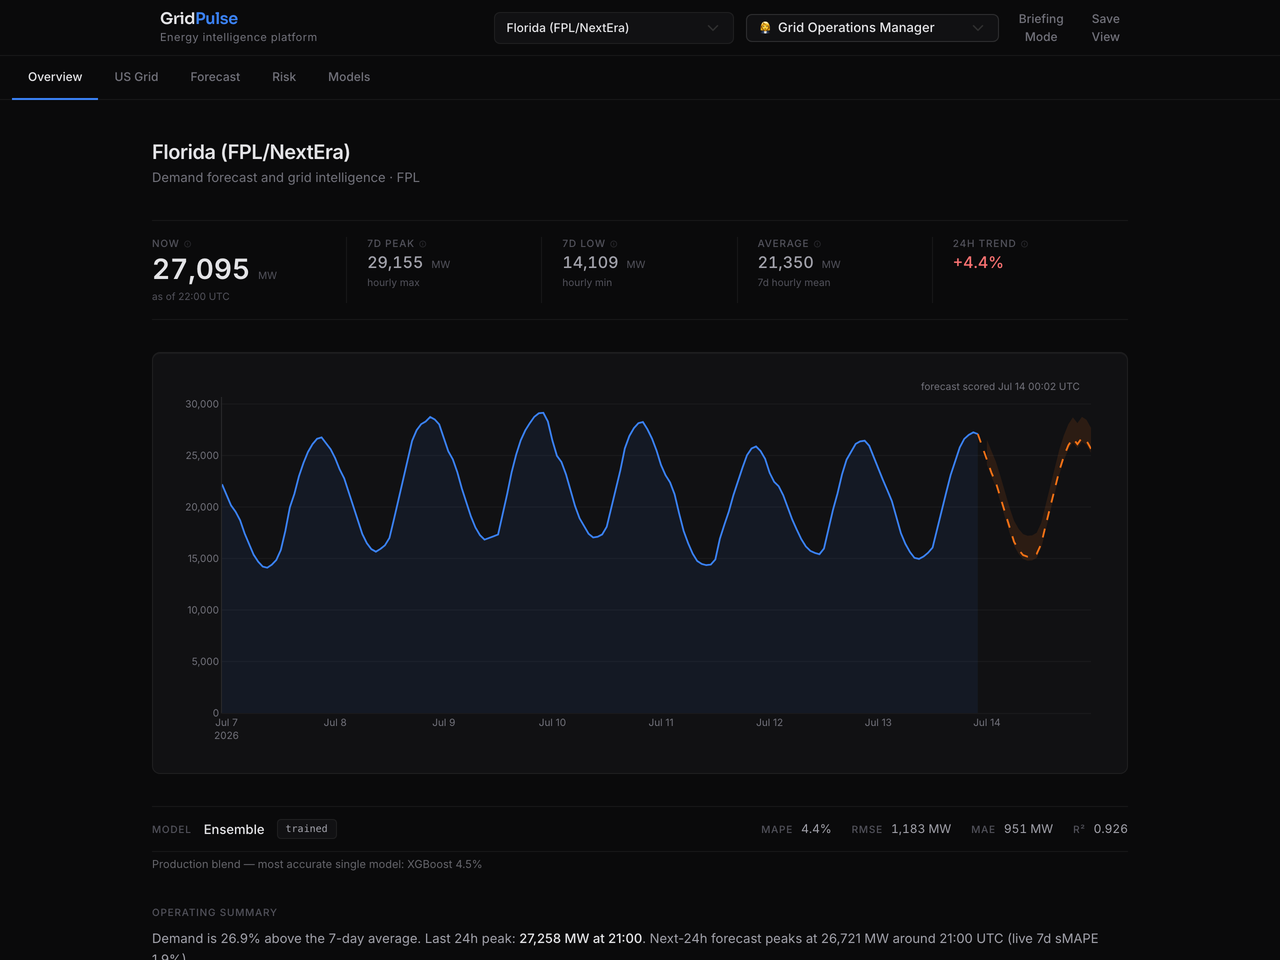
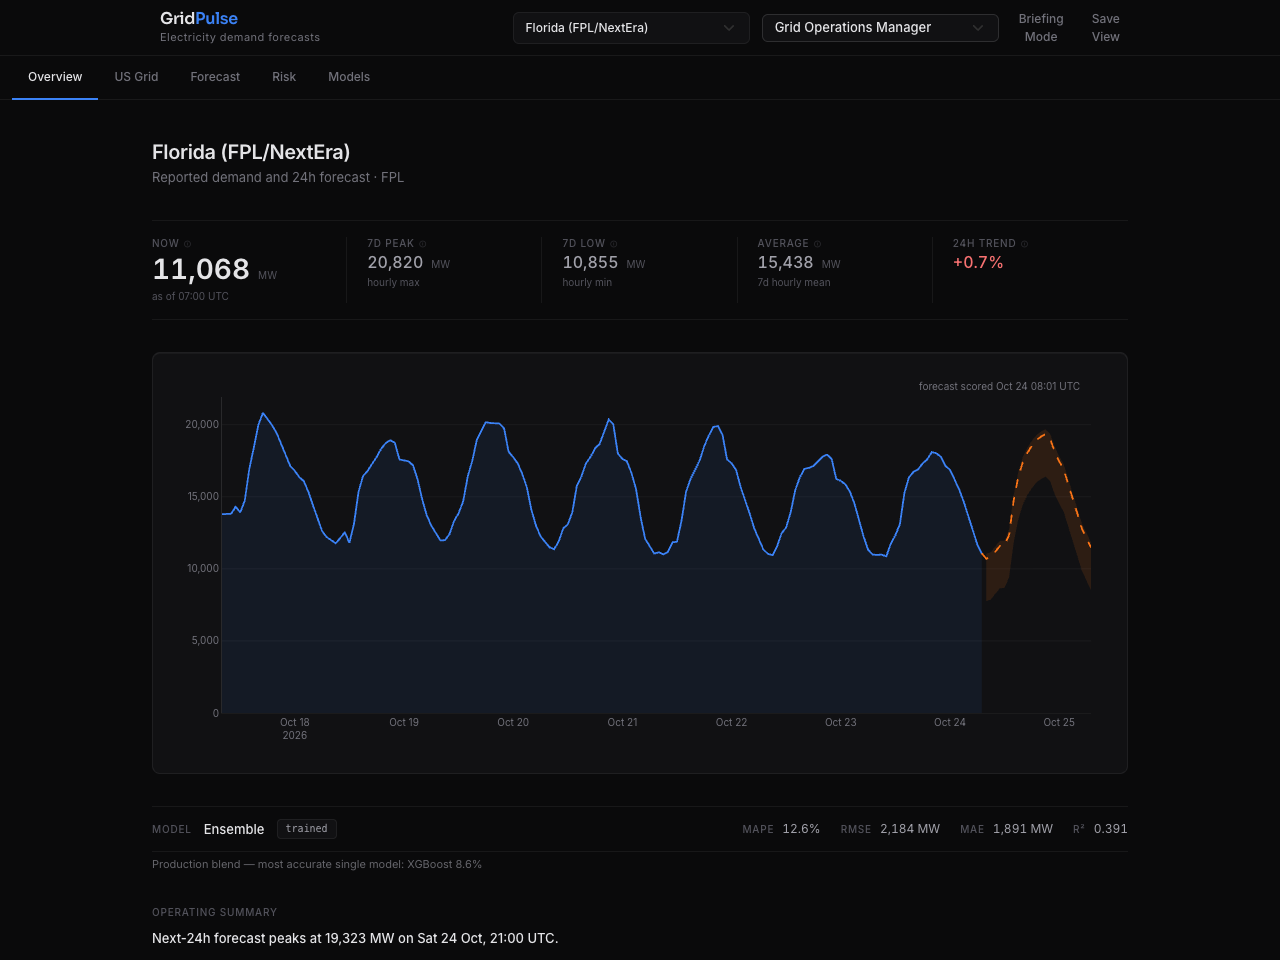
fix(content): correct data claims and refresh evaluation evidence

diff --git a/src/app/focusforge/terms/page.tsx b/src/app/focusforge/terms/page.tsx
@@ -7,7 +7,7 @@ import { Mono } from "@/components/typography/Mono";
 export const metadata: Metadata = {
   title: "FocusForge — Terms of Use",
   description:
-    "FocusForge's terms of use. Personal use license, honest limits on what the app does, fair liability terms. Built solo by Kristen Martino.",
+    "FocusForge's terms of use: the app license, local data export, template-based coaching, and conditions of use.",
   robots: { index: true, follow: true },
 };
 
@@ -45,7 +45,7 @@ export default function FocusForgeTermsOfUse() {
                 <span className="font-medium text-[var(--color-graphite-20)]">
                   Last updated:
                 </span>{" "}
-                May 17, 2026
+                October 24, 2026
               </span>
             </div>
 
@@ -54,17 +54,17 @@ export default function FocusForgeTermsOfUse() {
                 The short version
               </Mono>
               <p className="mt-4 text-base md:text-lg leading-relaxed text-[var(--color-graphite-20)]">
-                You can use FocusForge to do your work. We make no warranty
-                that the app is perfect or that your data is invulnerable —
-                back up via <strong>Settings → Export My Progress</strong> if
-                losing your streak would actually upset you. Don&apos;t try to
-                break the app for fun. If you do something illegal with the
-                app, that&apos;s between you and the law. If FocusForge genuinely
-                harms you, our liability is capped at what you paid for the
-                app (currently $0).
+                FocusForge is a focus timer with local progress records and
+                template-based coaching. Firebase receives usage events and
+                crash diagnostics as described in the{" "}
+                <Link href="/focusforge/privacy">Privacy Policy</Link>.
+                <strong> Settings → Export My Progress</strong> creates a JSON
+                copy of local progress. Version 1.0 cannot import that file
+                to restore progress in the app.
               </p>
               <p className="mt-3 text-base leading-relaxed text-[var(--color-graphite-40)]">
-                The long version follows. If anything is unclear, email{" "}
+                The full terms follow, including the warranty and liability
+                provisions. If anything is unclear, email{" "}
                 <a
                   href="mailto:legal@kristenmartino.ai"
                   className="text-[var(--color-signal-blue-soft)] underline-offset-4 hover:underline"
@@ -144,23 +144,25 @@ export default function FocusForgeTermsOfUse() {
                   You own everything you input into the app: your task names,
                   your character customizations, your streak history, your AI
                   Coach feedback. The app stores all of this on your device.
-                  You can export a complete JSON snapshot at any time via{" "}
+                  You can export a JSON file containing local progress via{" "}
                   <strong>Settings → Export My Progress</strong>.
                 </p>
                 <p>
-                  How we handle the small amount of data that does leave the
-                  device (crash reports, anonymous analytics) is described in
-                  detail in our <Link href="/focusforge/privacy">Privacy Policy</Link>. Read it.
+                  Firebase receives usage events and crash diagnostics, which
+                  can include installation or device identifiers. These
+                  records are not treated as fully anonymous. Collection
+                  and controls are described in the{" "}
+                  <Link href="/focusforge/privacy">Privacy Policy</Link>.
                 </p>
                 <p>
                   We make no promises about preserving your local data. If
                   your phone is damaged, lost, stolen, restored from a
-                  backup, or wiped, your FocusForge data may be lost. Cloud
-                  sync is planned for v1.1 but is not in v1.0.{" "}
-                  <strong>
-                    Back up via the export feature if your streak or character
-                    matters to you.
-                  </strong>
+                  backup, or wiped, your FocusForge data may be lost. Version
+                  1.0 has neither cloud sync nor an import/restore feature.
+                  The export contains session history, progression, inventory,
+                  quests and selected preferences; it does not contain every
+                  app record or Firebase data. Keep a saved export if you want
+                  a copy to inspect or use outside the app.
                 </p>
               </Section>
 
@@ -176,9 +178,7 @@ export default function FocusForgeTermsOfUse() {
                   </li>
                   <li>
                     A productivity guarantee. We make no claim that using
-                    FocusForge will cause you to get more done. (Spoiler:
-                    actually doing the work is the thing that gets the work
-                    done.)
+                    FocusForge will cause you to get more done.
                   </li>
                   <li>
                     Therapeutic advice. The AI Coach&apos;s templates are
@@ -202,11 +202,10 @@ export default function FocusForgeTermsOfUse() {
               <Section title="5. The AI Coach">
                 <p>
                   The &quot;AI Coach&quot; inside FocusForge is a hand-written catalog
-                  of templates routed by your local behavior. It is not a
-                  language model, it does not generate text dynamically, and
-                  it does not learn from you. It will surface one of a fixed
-                  set of pre-written sentences based on your task category
-                  and recent session pattern.
+                  of templates selected using your local behavior. It selects
+                  and fills written prompts using task context and recent
+                  session patterns. It does not call a language model or
+                  train a model on your activity.
                 </p>
                 <p>
                   The coach&apos;s suggestions are general. They may not apply to
@@ -256,9 +255,10 @@ export default function FocusForgeTermsOfUse() {
               <Section title="8. Service availability">
                 <p>
                   FocusForge is provided &quot;as is&quot; and &quot;as available.&quot; We make
-                  no promises about uptime, since the app runs entirely on
-                  your device and does not depend on a backend service.
-                  However:
+                  no promises about uninterrupted availability. The timer,
+                  local progress and coaching run on your device; Firebase
+                  analytics and crash reporting use external services.
+                  In particular:
                 </p>
                 <ul>
                   <li>

diff --git a/src/content/work.ts b/src/content/work.ts
@@ -140,7 +140,7 @@ export const projects: Project[] = [
     title: "Eval Harness",
     category: "Applied LLM Evaluation",
     summary:
-      "A framework for comparing language models on Sift’s news-processing tasks, covering output quality, cost, and response time. Includes tests for agent tool use and failure handling. Benchmark results are still pending.",
+      "A model-evaluation framework with a first categorization development result on 400 Sift articles. Reports agreement with stored model labels; human label review and the final held-out comparison remain pending.",
     href: "/work/eval-harness",
     slug: "eval-harness",
     liveHref: "https://evals.kristenmartino.ai",
@@ -151,13 +151,13 @@ export const projects: Project[] = [
     shape: "data-viz",
     image: "/work/eval-harness.png",
     imageAlt:
-      "Eval Harness site with links to the evaluation methodology and pending benchmark results.",
+      "Eval Harness live site, captured October 24, 2026: a 400-article development agreement baseline, model-assigned reference labels, and an unevaluated 100-item holdout.",
     metrics: [
-      "Planned comparison: 9 models · 4 tasks",
-      "Categorization and summarization modules",
-      "Held-out access gate · SHA-256 checks",
-      "Local and API cost comparison planned",
-      "Agent replay tests · live corpus run pending",
+      "400 real development articles",
+      "319/400 stored-label matches · 79.8%",
+      "Model-assigned labels · human review pending",
+      "100 held out · unevaluated",
+      "Full model and cost comparison pending",
     ],
   },
   {
@@ -199,7 +199,7 @@ export const projects: Project[] = [
     shape: "data-viz",
     image: "/work/gridpulse.png",
     imageAlt:
-      "GridPulse dashboard for Florida (FPL), showing reported electricity demand, forecasts, and model evaluation metrics.",
+      "GridPulse live demo captured October 24, 2026 for Florida (FPL), showing reported demand, a dated forecast, and the displayed snapshot's model metrics.",
     metrics: [
       "51 balancing authorities",
       "3 models + weighted ensemble",

diff --git a/src/content/services.ts b/src/content/services.ts
@@ -99,7 +99,7 @@ export const engagements: readonly Engagement[] = [
 export const proofHeading = "Related projects.";
 export const proofSub = "These independent projects show the kind of implementation and review work I do. Each case study states what is built, tested or still pending.";
 export const proof: readonly ProofItem[] = [
-  { slug: "eval-harness", name: "Eval Harness", claim: "Building a model-comparison framework.", detail: "Python adapters, task modules, held-out data checks and agent replay tests. The benchmark on Sift's real corpus is pending; no model rankings are claimed.", metric: "Harness implemented · corpus benchmark pending", caseStudyHref: "/work/eval-harness", liveHref: "https://evals.kristenmartino.ai", liveLabel: "View the methodology" },
+  { slug: "eval-harness", name: "Eval Harness", claim: "A measured development baseline.", detail: "Llama 3.1 8B matched 319/400 existing Sift category labels. The references are model-assigned; human label review and the final held-out model comparison remain pending.", metric: "79.8% stored-label agreement · development set", caseStudyHref: "/work/eval-harness", liveHref: "https://evals.kristenmartino.ai/leaderboard", liveLabel: "View development results" },
   {
     slug: "cabana",
     name: "Cabana",

diff --git a/src/app/focusforge/privacy/page.tsx b/src/app/focusforge/privacy/page.tsx
@@ -174,6 +174,13 @@ export default function FocusForgePrivacyPolicy() {
                   It is not an export of Firebase Analytics or Crashlytics records.
                 </p>
                 <p>
+                  Version 1.0 has no import/restore feature. The JSON file is
+                  a copy for inspection or use outside the app; exporting it
+                  does not provide an in-app recovery path after reinstalling
+                  the app or changing devices. It does not include every app
+                  record, such as individual coaching-prompt feedback events.
+                </p>
+                <p>
                   If you save or share that file through Files, email, AirDrop, or another
                   destination, its contents leave the app at your direction. Your chosen service
                   and device backup settings may retain copies.
